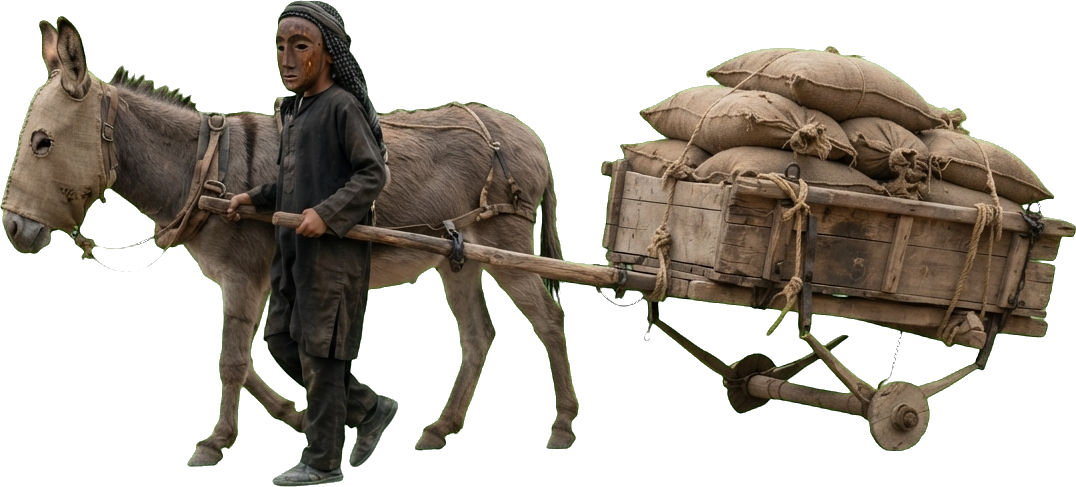
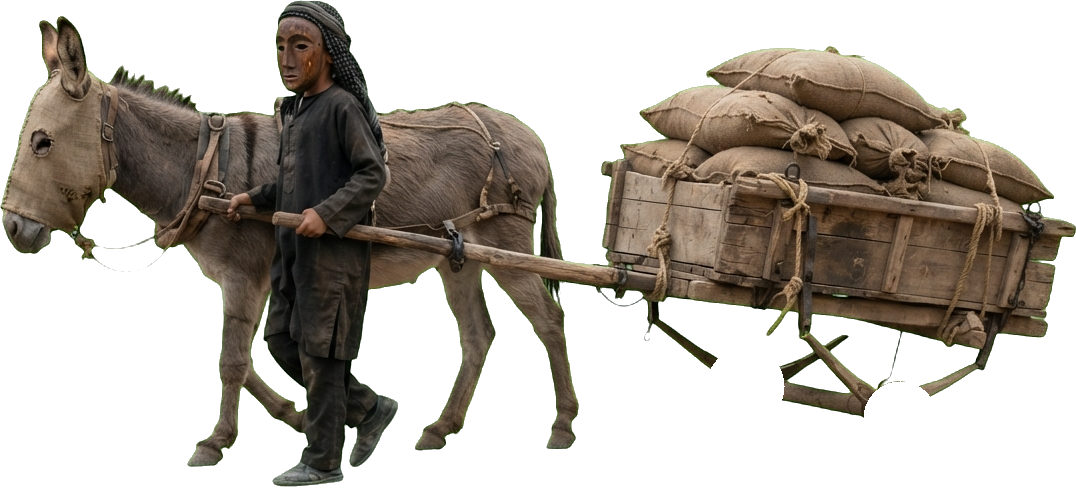
Five more road passers-by; painted wheels cut out and loose wheels turn in their place
Claude-Session: https://claude.ai/code/session_01NK9iDXTyx3wBvzPstrXWEG

diff --git a/Assets/Scripts/Prototype/StreetLife.cs b/Assets/Scripts/Prototype/StreetLife.cs
@@ -38,6 +38,7 @@ namespace Sheytoonak
             public Transform t; public SpriteRenderer sr; public List<Sprite> frames; public float speed, endX, frame;
             public Transform[] wheels; public float wheelRadius; // painted cars: wheels spin with the distance driven
             public bool cyclist; // a rider on two wheels: wheels roll, the walk frames pedal, no bob
+            public float[] radii; public float spinSign = -1f; // loose wheels of different sizes (a carriage); +1: painted facing left
             public bool traffic; // medieval road traffic (Art/Traffic): counted apart from the walkers on the pavement
         }
 
@@ -478,7 +479,8 @@ namespace Sheytoonak
             return go.transform;
         }
 
-        class TrafficDef { public List<Sprite> frames = new List<Sprite>(); public float height = 2.2f, speed = 1.8f; }
+        class TrafficWheel { public Sprite pic; public float r, x, y; public bool front; }
+        class TrafficDef { public List<Sprite> frames = new List<Sprite>(); public float height = 2.2f, speed = 1.8f, width; public List<TrafficWheel> wheels = new List<TrafficWheel>(); }
         List<TrafficDef> traffic;
         List<TrafficDef> Traffic()
         {
@@ -501,6 +503,20 @@ namespace Sheytoonak
                     if (f.Length < 3 || f[0].StartsWith("#") || !byName.TryGetValue(f[0], out var d)) continue;
                     float.TryParse(f[1], System.Globalization.NumberStyles.Float, inv, out d.height);
                     float.TryParse(f[2], System.Globalization.NumberStyles.Float, inv, out d.speed);
+                    if (f.Length > 3) float.TryParse(f[3], System.Globalization.NumberStyles.Float, inv, out d.width);
+                    for (int i = 4; i < f.Length; i++)
+                    {
+                        // wheelPicture:radius:cx:cy:front|back -- a loose wheel (Art/Poison/<picture>) where the painted one was cut out
+                        var w = f[i].Split(':');
+                        if (w.Length < 5) continue;
+                        var wt = Resources.Load<Texture2D>("Art/Poison/" + w[0]);
+                        if (wt == null) continue;
+                        var tw = new TrafficWheel { pic = Sprite.Create(wt, new Rect(0, 0, wt.width, wt.height), new Vector2(0.5f, 0.5f), 100f), front = w[4] == "front" };
+                        float.TryParse(w[1], System.Globalization.NumberStyles.Float, inv, out tw.r);
+                        float.TryParse(w[2], System.Globalization.NumberStyles.Float, inv, out tw.x);
+                        float.TryParse(w[3], System.Globalization.NumberStyles.Float, inv, out tw.y);
+                        d.wheels.Add(tw);
+                    }
                 }
             foreach (var kv in byName) { kv.Value.frames.Sort((a, b) => string.CompareOrdinal(a.name, b.name)); traffic.Add(kv.Value); }
             return traffic;
@@ -546,7 +562,28 @@ namespace Sheytoonak
                 nextCar = t + Random.Range(carEvery.x, carEvery.y);
                 var tr = traffic[Random.Range(0, traffic.Count)];
                 Spawn(tr.frames, tr.height, roadZ, tr.speed * Random.Range(0.9f, 1.1f), 30f, false);
-                movers[movers.Count - 1].traffic = true;
+                var mv = movers[movers.Count - 1]; mv.traffic = true;
+                if (tr.wheels.Count > 0)
+                {
+                    // User (2026-11-18): «مهمه برام چرخ حرکت کنه». The painted wheels were cut out of the picture
+                    // (tools/frames/cut_wheels.py); loose wooden wheels turn in their place, the far ones behind the body and darker.
+                    var tex = tr.frames[0].texture; float ps = tr.width > 1f ? tex.width / tr.width : 1f; // the phone imports big pictures smaller
+                    float sc = Mathf.Abs(mv.t.localScale.y);
+                    var ws = new Transform[tr.wheels.Count]; var rr = new float[tr.wheels.Count];
+                    for (int i = 0; i < ws.Length; i++)
+                    {
+                        var w = tr.wheels[i];
+                        var wr = new GameObject("Wheel").AddComponent<SpriteRenderer>();
+                        wr.sprite = w.pic; wr.sortingOrder = w.front ? 1 : -1;
+                        if (!w.front) wr.color = new Color(0.62f, 0.6f, 0.58f);
+                        wr.transform.SetParent(mv.t, false);
+                        wr.transform.localPosition = new Vector3((w.x * ps - tex.width * 0.5f) / 100f, (tex.height - w.y * ps) / 100f, w.front ? -0.01f : 0.01f);
+                        wr.transform.localScale = Vector3.one * (2f * w.r * ps / w.pic.rect.width);
+                        ws[i] = wr.transform; rr[i] = w.r * ps / 100f * sc;
+                    }
+                    mv.t.gameObject.AddComponent<UnityEngine.Rendering.SortingGroup>();
+                    mv.wheels = ws; mv.radii = rr; mv.spinSign = 1f;
+                }
             }
             else if (VehiclesOn && paintedCars.Count > 0 && t >= nextCar && !carOut)
             {
@@ -568,8 +605,12 @@ namespace Sheytoonak
                 if (m.wheels != null)
                 {
                     // rolling without slipping: angle = distance / radius; the mirrored root flips the sense by itself
-                    float deg = Mathf.Abs(m.speed) * Time.deltaTime / Mathf.Max(0.01f, m.wheelRadius) * Mathf.Rad2Deg;
-                    foreach (var w in m.wheels) w.Rotate(0f, 0f, -deg, Space.Self);
+                    for (int wi = 0; wi < m.wheels.Length; wi++)
+                    {
+                        float rad = m.radii != null && wi < m.radii.Length ? m.radii[wi] : m.wheelRadius;
+                        float deg = Mathf.Abs(m.speed) * Time.deltaTime / Mathf.Max(0.01f, rad) * Mathf.Rad2Deg;
+                        m.wheels[wi].Rotate(0f, 0f, m.spinSign * deg, Space.Self);
+                    }
                 }
                 if (m.cyclist)
                 {

diff --git a/tools/frames/cut_wheels.py b/tools/frames/cut_wheels.py
@@ -1,0 +1,30 @@
+"""Key a side-view picture and take its painted wheels out, so loose wheels can turn in their place.
+  near wheel (in front of everything): the whole disc goes; above `bodyline` (where the body shows between the spokes)
+    it is filled with the body's own colour instead of a hole
+  far wheel (behind the body): only the disc below `bodyline` goes
+  dark=True: only dark (iron) pixels of the disc go (a thin hoop in front of wood)
+Returns the cropped RGBA and the wheels' centres in cropped pixels."""
+import numpy as np
+from PIL import Image
+def cut(path, wheels, bodyline, flip=False):
+    aa=np.asarray(Image.open(path).convert('RGB')).astype(float).copy()
+    g=aa[...,1]-np.maximum(aa[...,0],aa[...,2]); al=np.clip(1-(g-40)/70,0,1); al[(aa[...,1]>150)&(g>90)]=0
+    lim=np.maximum(aa[...,0],aa[...,2])+12; aa[...,1]=np.where(aa[...,1]>lim,lim,aa[...,1])
+    H,W=al.shape; yy,xx=np.mgrid[0:H,0:W]
+    for (cx,cy,r,kind) in wheels:
+        d=(xx-cx)**2+(yy-cy)**2<=(r+9)**2
+        if kind=='near':
+            up=d&(yy<bodyline); solid=up&(al>0.9)
+            if solid.sum()>50:
+                col=np.median(aa[solid],axis=0); aa[up&(al>0.2)]=col*0.8
+            al[d&(yy>=bodyline)]=0
+        elif kind=='far': al[d&(yy>=bodyline)]=0
+        elif kind=='dark': al[d&(aa.max(-1)<95)]=0
+        else: al[d]=0
+    ys,xs=np.where(al>0.03); x0,x1,y0,y1=xs.min(),xs.max()+1,ys.min(),ys.max()+1
+    # room below for the loose wheels
+    low=max([cy+r for cx,cy,r,k in wheels]+[y1]); y1=int(min(H,max(y1,low+2)))
+    im=Image.fromarray(np.dstack([aa,al*255]).astype(np.uint8)[y0:y1,x0:x1],'RGBA')
+    ws=[(cx-x0,cy-y0,r,k) for cx,cy,r,k in wheels]
+    if flip: im=im.transpose(Image.FLIP_LEFT_RIGHT); ws=[(im.width-cx,cy,r,k) for cx,cy,r,k in ws]
+    return im,ws

diff --git a/Assets/Scripts/Prototype/DuelStage.cs b/Assets/Scripts/Prototype/DuelStage.cs
@@ -644,18 +644,18 @@ namespace Sheytoonak.Prototype
                 var wsp = Sprite.Create(wheelT, new Rect(0, 0, wheelT.width, wheelT.height), new Vector2(0.5f, 0.5f), 100f);
                 // ⚠ the centres are pixels of the original 1508-wide picture; the phone imports it at 1024 (user's phone
                 // screenshots 2026-11-12: «چرخشون مچ نیست»), so they are scaled by the actual width
-                float ps = truckT.width / 1508f;
-                foreach (var c0 in new[] { new Vector2(565f, 753f), new Vector2(1216f, 757f) })
+                float ps = truckT.width / 797f; // medieval repaint 2026-11-18: one wooden wheel where the barrow's iron hoop was
+                foreach (var c0 in new[] { new Vector2(235f, 590f) })
                 {
                     var w = new GameObject("Wheel").AddComponent<SpriteRenderer>();
                     w.sprite = wsp; w.sortingOrder = truck.sortingOrder - 1; // the arches cover the tops of the tyres
                     w.transform.SetParent(truck.transform, false);
                     var c = c0 * ps;
                     w.transform.localPosition = new Vector3((c.x - truckT.width * 0.5f) / 100f, (truckT.height - c.y) / 100f, 0.01f);
-                    w.transform.localScale = Vector3.one * (276f * ps / wheelT.width);
+                    w.transform.localScale = Vector3.one * (92f * ps / wheelT.width);
                     wheels.Add(w.transform);
                 }
-                wheelR = 1.38f * ps * k; // 138 original px at 100 ppu, in world units
+                wheelR = 0.46f * ps * k; // 46 original px at 100 ppu, in world units
             }
             System.Action<float, float> roll = (from, to) =>
             {

diff --git a/docs/CHANGELOG.fa.md b/docs/CHANGELOG.fa.md
@@ -2,6 +2,11 @@
 
 این فایل خلاصهی کارهای انجامشده است تا اگر کار جای دیگری ادامه پیدا کرد، معلوم باشد چه ساخته شده، چرا، و چه چیزهایی هنوز باز است. جزئیاتِ هر تغییر در پیامِ کامیتهاست (`git log`)؛ اینجا فقط نقشهی راه.
 
+## ۲۸ آبان — پنج رهگذرِ جاده و چرخهایی که میچرخند
+- `Art/Traffic/`: اسبسوار، کالسکه، چوپان و گوسفندها (آینه شد تا رو به چپ باشد)، تختروان، باربر با گاریِ هندوانه، الاغ و گاری.
+- کاربر: «مهمه برام چرخ حرکت کنه و سر نخوره». چرخِ نقاشیشدهی کالسکه، گاریِ باربر، گاریِ الاغ و فرغونِ رفتگر از تصویر بریده شد (`tools/frames/cut_wheels.py`) و چرخِ چوبیِ جدا جایش با مسافت میچرخد؛ چرخهای دور پشتِ بدنه و تیرهتر.
+- پاها هنوز تکان نمیخورند تا تصویرِ دومِ هر کدام برسد. در بازی دیده نشده.
+
 ## ۲۸ آبان — هیچکس سُر نمیخورد (زیرساخت)
 - کاربر: «پای رفتگر باید تکون بخوره. کسی نباید کلا سر بخوره تو تصویر».
 - `PoisonProps.WalkFrames`: هر تصویرِ پادار که کنارش `name_step1..3` باشد، با مسافتِ طیشده قاب عوض میکند (رفت و برگشت) و تکانِ ریزِ گام دارد. وصل شد به کاروان، گاریِ علف، نگهبانها، سقّا، رفتگر. رفتوآمدِ جاده با `name_a..d` همینطور.
